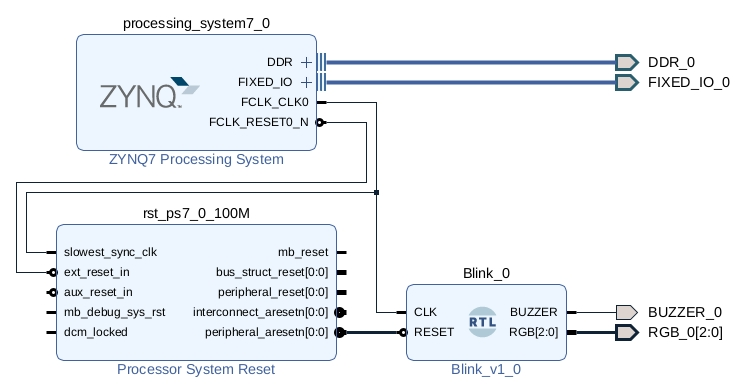
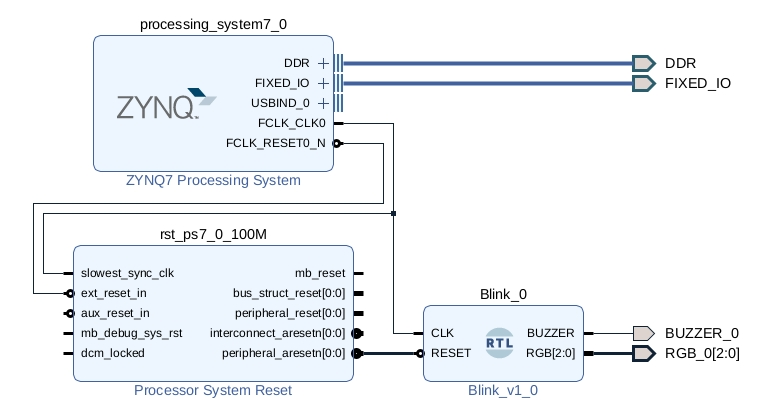
bup

Changed region(s): [[0.0306, 0.093, 0.9787, 0.9922], [0.1223, 0.031, 0.4282, 0.093]]

diff --git a/.site/projects/PS_only:_Standalone/README.md b/.site/projects/PS_only:_Standalone/README.md
@@ -8,10 +8,11 @@ Assuming you understand: [PL only: Standalone](../PL_only:_Standalone/README.md)
 * User leds: 1 and 2s
 * User Button: (input only)
 
-## We will need our exported platform from [PL only: Standalone](../PL_only:_Standalone/README.md)
+## We need a similar platform to the [PL only: Standalone](../PL_only:_Standalone/README.md) one, but without disabling all the peripherals. (We probably need UART1 and USB)..
 
-## Starting Vitis with [our [standalone (OS)] platform]:
-![](images/vitis.1.jpg "block diagram")
+![](images/vitis.0.jpg "block design")
+
+![](images/vitis.1.svg "block diagram")
 
 ![](images/vitis.2.jpg "standalone OS")
 
@@ -49,3 +50,6 @@ Assuming you understand: [PL only: Standalone](../PL_only:_Standalone/README.md)
 ![](images/pins.3.jpg "releasing CAN0")
 
 
+uart1
+
+TESting: Changin XSA needs rebuilding BSP?
